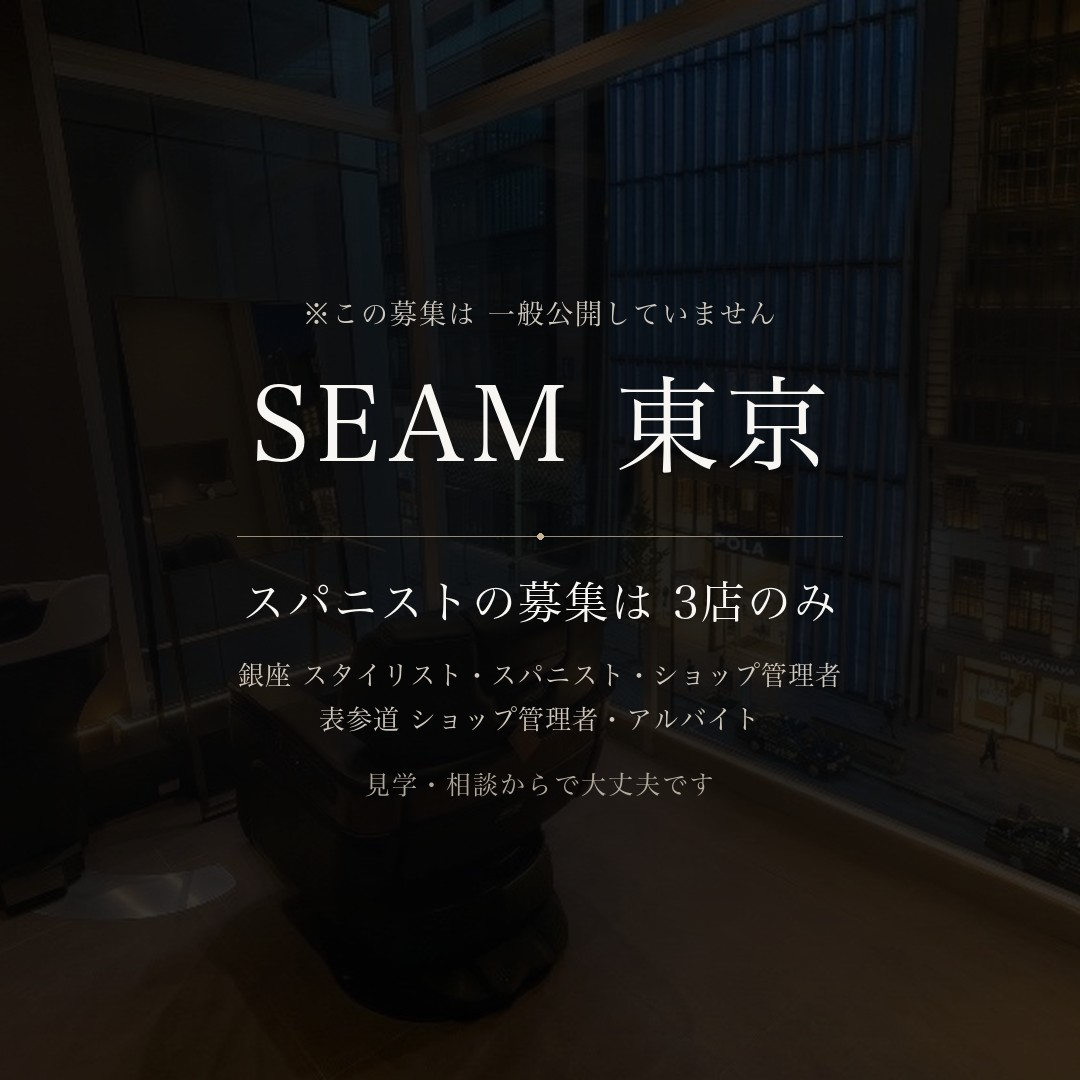
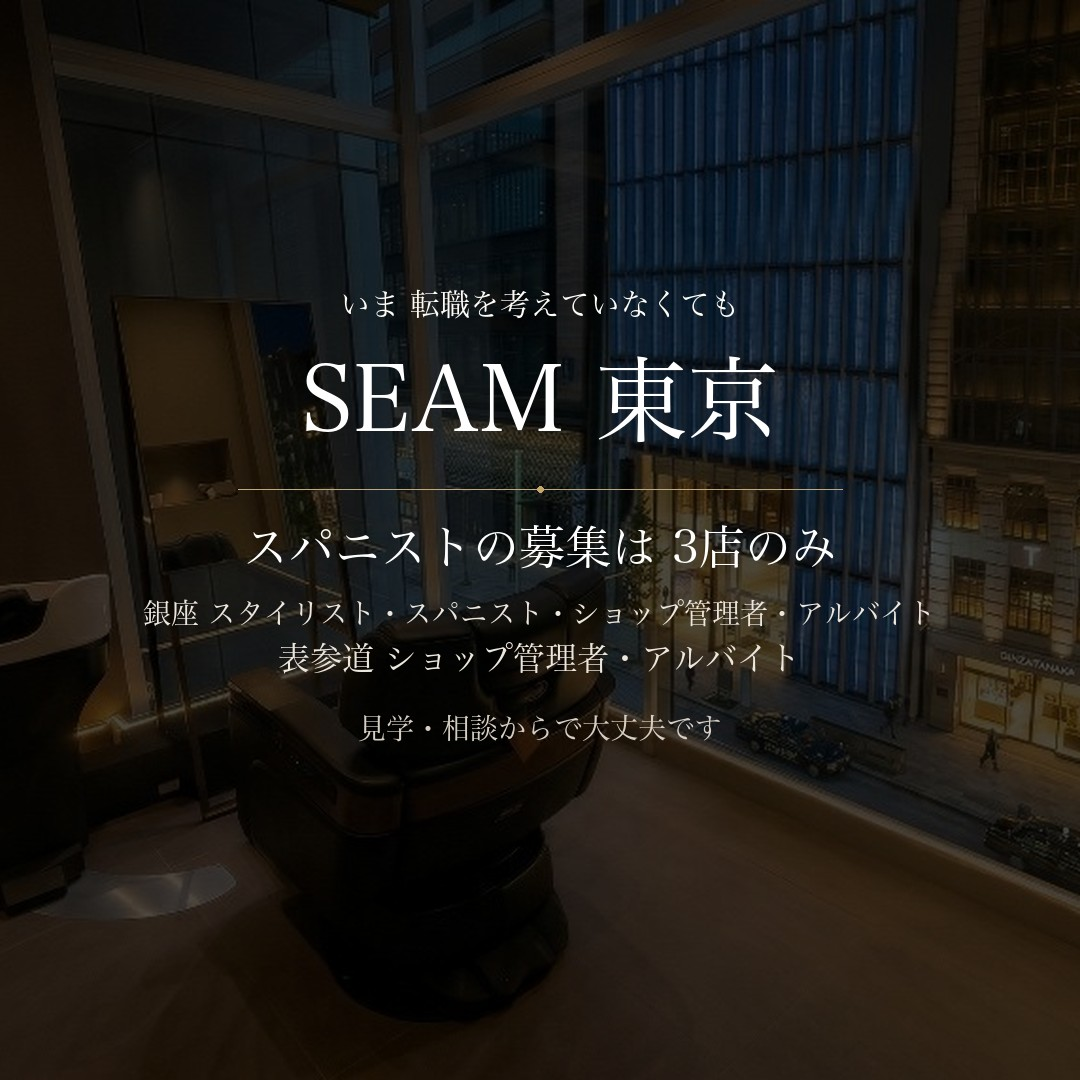
求人広告クリエイティブを作り直した（虚偽の希少性を除去）
【直した事故】旧クリエイティブに「※この募集は 一般公開していません」と入っていたが
seam.site/recruit は公開ページで sitemapにも15URL載っており、しかも広告のリンク先そのもの。
クリックした瞬間に嘘だとわかる状態だった。
→ 二人称フック「いま 転職を考えていなくても」に差し替え。事実の主張をしない形にした。

希少性は build_recruit_pages.py と同じ ROLE_STORES から機械的に導くようにした。
手で「限定」と書かない仕組みにして、前回の「銀座 募集終了」と同じ事故を防ぐ。
  東京・大阪・名古屋 = スパニストの募集は 3店のみ
  札幌             = ショップ管理者の募集は 3店のみ
  福岡             = アシスタントの募集は 福岡だけです

単純に最少職種を選ぶと東京が「アルバイト」になり求人として弱かったので
職種の優先順（スパニスト＞アシスタント＞ショップ管理者＞スタイリスト＞アルバイト）を入れた。

生成器を scripts/build_recruit_ads.py としてリポジトリに保存（前回scratchpadで揮発させた）。
未使用だった ginza/omotesando 単体版は東京統合で不要になったため削除。

diff --git a/scripts/build_recruit_ads.py b/scripts/build_recruit_ads.py
@@ -1,0 +1,155 @@
+#!/usr/bin/env python3
+# -*- coding: utf-8 -*-
+"""SEAM 求人 Meta広告のクリエイティブを作る（1080×1080）。
+
+勝ちパターン（CTR 6.15% の求人ペラ一）から採るのは3つだけ:
+  ① 二人称フック  ② 実写（生成画像は使わない）  ③ 事実に基づく希少性
+
+【重要・過去の事故】
+  1. 「東京・銀座店 募集終了」…… 銀座は現在4職種を募集中で、事実と違った
+  2. 「※この募集は 一般公開していません」…… seam.site/recruit は公開ページで
+     sitemapにも15URL載っており、しかも広告のリンク先そのもの。
+     クリックした瞬間に嘘だとわかる。
+  → **希少性は build_recruit_pages.py の ROLE_STORES から機械的に導く**。
+     手で「限定」と書かない。
+
+コピールール（[[seam-copy-style-rules]]）: 句点「。」は使わない・読点は最小限。
+"""
+import os
+from PIL import Image, ImageDraw, ImageFont, ImageEnhance
+
+ROOT = os.path.dirname(os.path.dirname(os.path.abspath(__file__)))
+OUT = os.path.join(ROOT, 'images', 'ads', 'recruit')
+MINCHO = '/System/Library/Fonts/ヒラギノ明朝 ProN.ttc'
+
+# build_recruit_pages.py と同じ定義（ズレたら希少性の記述が嘘になるので必ず揃える）
+STYLIST_STORES = ["ginza", "sapporo", "osaka", "nagoya", "fukuoka"]
+SPANIST_STORES = ["ginza", "osaka", "nagoya"]
+ASSISTANT_STORES = ["fukuoka"]
+SHOPMGR_STORES = ["ginza", "omotesando", "sapporo"]
+PARTTIME_STORES = ["ginza", "omotesando"]
+ROLE_JA = {"stylist": "スタイリスト", "spanist": "スパニスト", "assistant": "アシスタント",
+           "shopmanager": "ショップ管理者", "parttime": "アルバイト"}
+ROLE_STORES = {"stylist": STYLIST_STORES, "spanist": SPANIST_STORES,
+               "assistant": ASSISTANT_STORES, "shopmanager": SHOPMGR_STORES,
+               "parttime": PARTTIME_STORES}
+
+def roles_of(slug):
+    return [r for r, ss in ROLE_STORES.items() if slug in ss]
+
+# 見出しに立てる職種の優先順。単純に「いちばん少ない職種」を選ぶと
+# 東京がアルバイトになり、求人広告として弱くなる（実際そうなった）。
+# スパニストはSEAMの看板でいちばん探される職種なので先頭に置く。
+HOOK_PRIORITY = ["spanist", "assistant", "shopmanager", "stylist", "parttime"]
+
+def scarcity(slugs):
+    """その広告で言える希少性を ROLE_STORES から導く。作らない・盛らない。
+    優先度の高い職種のうち、いちばん店舗数が少ないものを見出しにする。"""
+    present = {r for slug in slugs for r in roles_of(slug)}
+    if not present:
+        return ''
+    r = sorted(present, key=lambda x: (HOOK_PRIORITY.index(x), len(ROLE_STORES[x])))[0]
+    n = len(ROLE_STORES[r])
+    if n == 1:
+        return f'{ROLE_JA[r]}の募集は {ROLE_JA_AREA[ROLE_STORES[r][0]]}だけです'
+    return f'{ROLE_JA[r]}の募集は {n}店のみ'
+
+ROLE_JA_AREA = {"ginza": "銀座", "omotesando": "表参道", "sapporo": "札幌",
+                "osaka": "大阪", "nagoya": "名古屋", "fukuoka": "福岡"}
+
+# 広告セット＝エリア。東京は銀座＋表参道をひとつにまとめる（自己競合を避けるため）
+ADS = [
+    {"key": "tokyo",   "title": "SEAM 東京",   "slugs": ["ginza", "omotesando"],
+     "photo": "images/stores/headspa_ginza_room.jpg"},
+    {"key": "sapporo", "title": "SEAM 札幌",   "slugs": ["sapporo"],
+     "photo": "images/stores/store_sapporo.jpg"},
+    {"key": "osaka",   "title": "SEAM 大阪",   "slugs": ["osaka"],
+     "photo": "images/stores/store_osaka.jpg"},
+    {"key": "nagoya",  "title": "SEAM 名古屋", "slugs": ["nagoya"],
+     "photo": "images/stores/store_nagoya.jpg"},
+    {"key": "fukuoka", "title": "SEAM 福岡",   "slugs": ["fukuoka"],
+     "photo": "images/stores/store_fukuoka.jpg"},
+]
+
+EYEBROW = 'いま 転職を考えていなくても'      # 二人称・事実の主張をしない
+CLOSING = '見学・相談からで大丈夫です'        # 求人ページに見学導線が実在する
+
+SIZE = 1080
+BRIGHTNESS = 0.30      # 文字が確実に読める暗さ
+GOLD = (198, 166, 106)
+
+
+def cover(img, size):
+    w, h = img.size
+    s = max(size / w, size / h)
+    img = img.resize((int(w * s + 1), int(h * s + 1)), Image.LANCZOS)
+    w, h = img.size
+    return img.crop(((w - size) // 2, (h - size) // 2,
+                     (w - size) // 2 + size, (h - size) // 2 + size))
+
+
+MAX_W = 900      # 左右に90pxずつ余白を残す（フィードで潰れないため）
+
+def fit(size, text, max_w=MAX_W, floor=22):
+    """はみ出す行は入るまで文字を小さくする。
+    東京は職種が6つ並び、固定サイズだと端まで届いて窮屈になった。"""
+    f = ImageFont.truetype(MINCHO, size)
+    while size > floor:
+        if ImageDraw.Draw(Image.new('RGB', (1, 1))).textbbox((0, 0), text, font=f)[2] <= max_w:
+            break
+        size -= 2
+        f = ImageFont.truetype(MINCHO, size)
+    return f
+
+def draw_center(d, y, text, font, fill):
+    w = d.textbbox((0, 0), text, font=font)[2]
+    d.text(((SIZE - w) // 2, y), text, font=font, fill=fill)
+    return d.textbbox((0, 0), text, font=font)[3]
+
+
+def build(spec):
+    src = os.path.join(ROOT, spec['photo'])
+    assert os.path.exists(src), f'写真が無い: {src}'
+    img = cover(Image.open(src).convert('RGB'), SIZE)
+    img = ImageEnhance.Brightness(img).enhance(BRIGHTNESS)
+    d = ImageDraw.Draw(img)
+
+    f_eye = ImageFont.truetype(MINCHO, 30)
+    f_ttl = ImageFont.truetype(MINCHO, 92)
+    f_end = ImageFont.truetype(MINCHO, 28)
+
+    # 役割の行（店舗が複数なら店ごとに1行）
+    if len(spec['slugs']) > 1:
+        role_lines = [f"{ROLE_JA_AREA[s]} " + '・'.join(ROLE_JA[r] for r in roles_of(s))
+                      for s in spec['slugs']]
+    else:
+        role_lines = ['・'.join(ROLE_JA[r] for r in roles_of(spec['slugs'][0]))]
+
+    hook = scarcity(spec['slugs'])
+
+    # 縦位置は中央に寄せる
+    y = 288
+    y += draw_center(d, y, EYEBROW, f_eye, (255, 252, 246)) + 34
+    y += draw_center(d, y, spec['title'], f_ttl, (255, 255, 255)) + 46
+
+    d.line([(238, y), (842, y)], fill=(190, 168, 128), width=1)
+    d.ellipse([(SIZE // 2 - 3, y - 3), (SIZE // 2 + 3, y + 3)], fill=GOLD)
+    y += 34
+
+    y += draw_center(d, y, hook, fit(46, hook), (255, 255, 255)) + 30
+    for ln in role_lines:
+        y += draw_center(d, y, ln, fit(32, ln, max_w=820), (236, 230, 220)) + 14
+    y += 26
+    draw_center(d, y, CLOSING, f_end, (214, 206, 194))
+
+    os.makedirs(OUT, exist_ok=True)
+    p = os.path.join(OUT, f"seam_recruit_{spec['key']}_1080.jpg")
+    img.save(p, quality=90, optimize=True)
+    return p, hook, role_lines
+
+
+if __name__ == '__main__':
+    for spec in ADS:
+        p, hook, roles = build(spec)
+        print(f"{spec['key']:8} {os.path.basename(p)}")
+        print(f"         {hook}  /  {' ／ '.join(roles)}")
